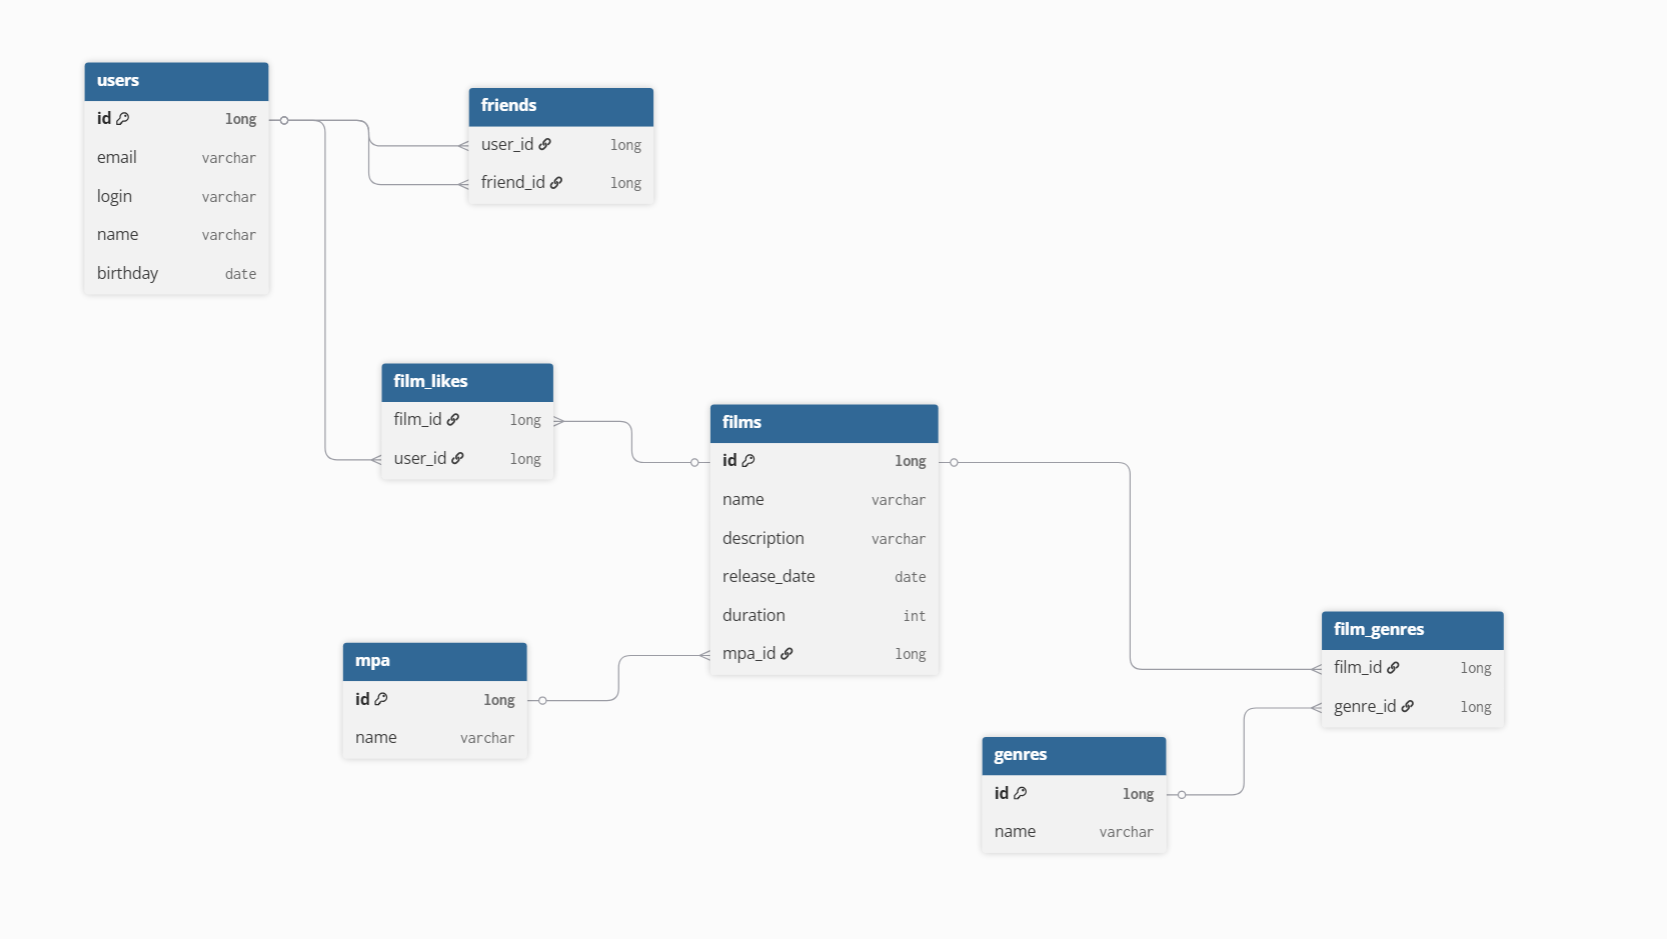
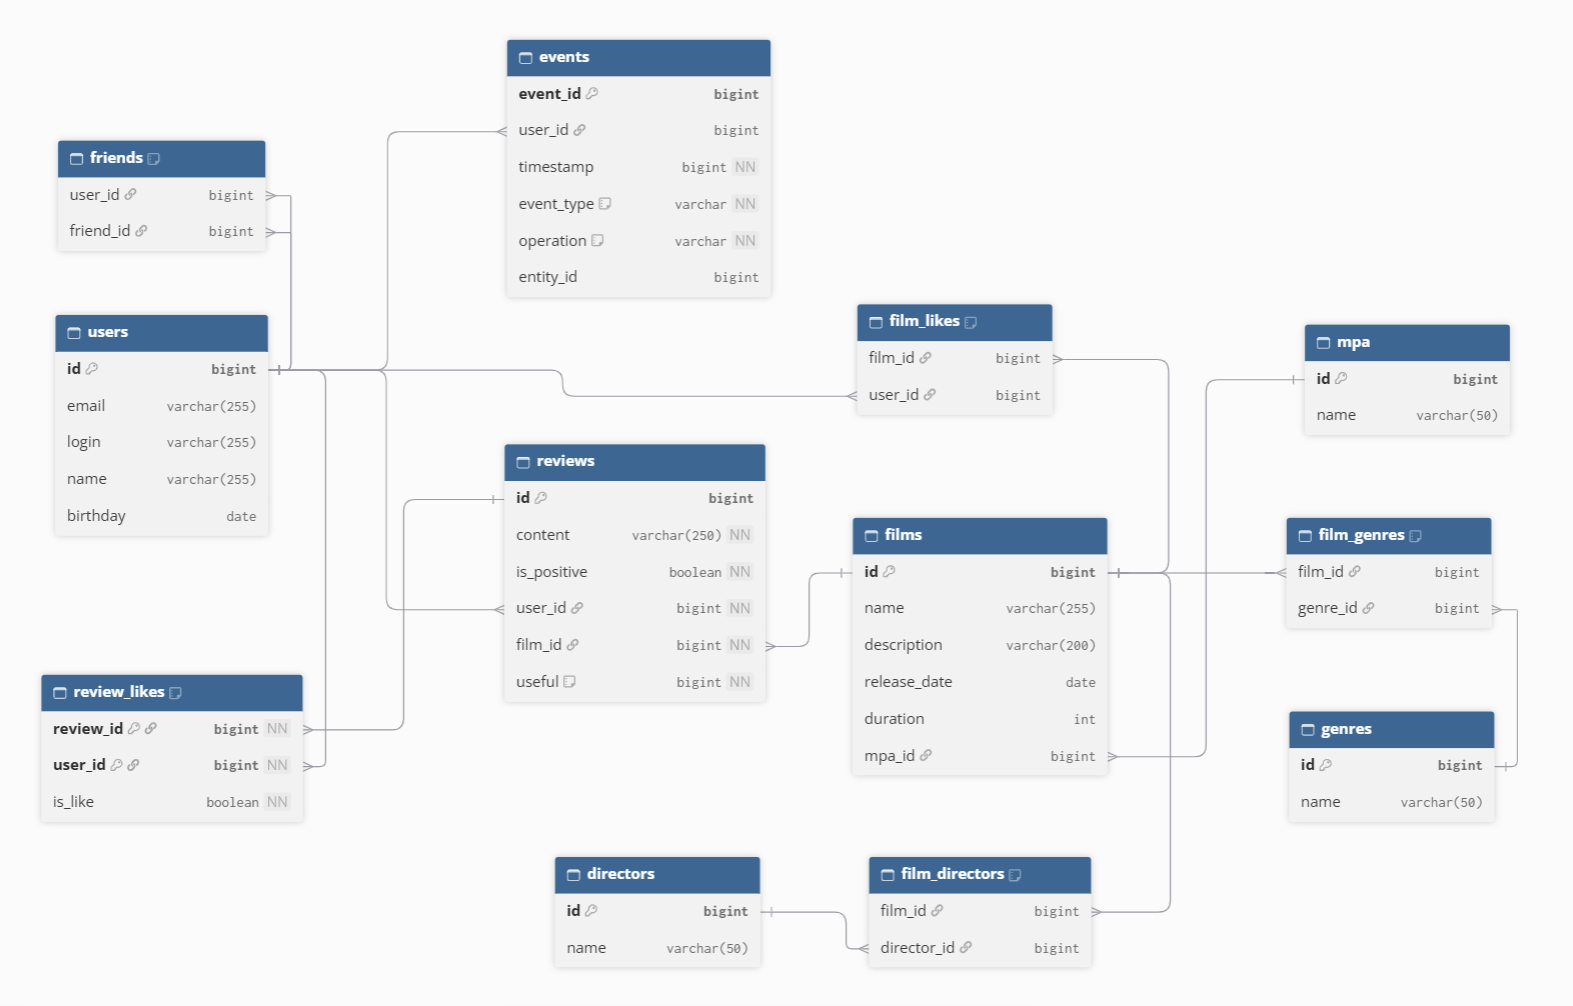
fix readme №1

diff --git a/README.md b/README.md
@@ -1,41 +1,131 @@
-# Распределение обязанностей
-* Функциональность «Общие фильмы» - Александр Пугачев
-* Вывод самых популярных фильмов по жанру и годам - Александр Пугачев
-* Функциональность «Лента событий» - Рахимов Диёр
-* Функциональность «Рекомендации» - Рахимов Диёр
-* Функциональность «Отзывы» - Ярослав Анферов
-* Удаление фильмов и пользователей - Ярослав Анферов
-* Функциональность «Поиск» - Фёдор Долганов
-* Добавление режиссёров в фильмы - Фёдор Долганов
+# Java Filmorate
+
+**Java Filmorate** — командный учебный проект: REST API для сервиса, в котором пользователи могут находить фильмы, оценивать их, общаться с друзьями и получать персональные рекомендации.
+
+Приложение позволяет вести каталог фильмов и пользователей, формировать рейтинги популярности по лайкам, искать фильмы по названию и режиссёру, публиковать отзывы и отслеживать события пользователей.
+
+
+## Схема
+
+![diagram.png](diagram.png)
 
 
 
-# Описание схемы базы данных
 
-![ER Diagram](diagram.png)
+## Функциональность
+
+### Фильмы
+
+- Добавление, получение, редактирование и удаление фильмов.
+- Хранение информации о названии, описании, дате выхода, продолжительности, жанрах, режиссёрах и возрастном рейтинге MPA.
+- Постановка и удаление лайков.
+- Получение рейтинга популярных фильмов по количеству лайков с фильтрацией по жанру и году выпуска.
+- Поиск фильмов по названию, имени режиссёра или одновременно по обоим параметрам; результаты упорядочиваются по популярности.
+- Получение фильмов определённого режиссёра с сортировкой по году выхода или числу лайков.
+- Получение фильмов, понравившихся двум пользователям.
+
+### Пользователи и социальные функции
+
+- Создание, получение, редактирование и удаление пользователей.
+- Добавление и удаление друзей, просмотр списка друзей и поиск общих друзей.
+- Персональные рекомендации фильмов на основе совпадений лайков с другим пользователем. Из фильмов наиболее похожего по предпочтениям пользователя выбираются те, которые текущий пользователь ещё не лайкнул.
+- Просмотр ленты событий: добавление и удаление друзей, лайки фильмов и действия с отзывами.
+
+### Отзывы
+
+- Создание, изменение, удаление и получение отзывов на фильмы.
+- Разделение отзывов на положительные и отрицательные.
+- Лайки и дизлайки отзывов, возможность отмены реакции.
+- Расчёт рейтинга полезности отзыва и сортировка отзывов по нему.
+
+*В представленном исходном коде для отзывов показаны сервис и слой доступа к данным; маршруты их REST-контроллера в приложенном документе не приведены.*
+
+### Справочники
+
+- Получение списка жанров и отдельных жанров.
+- Получение списка рейтингов MPA и отдельных рейтингов.
+- Добавление, изменение, получение и удаление режиссёров.
+
+## Технологии
+
+- **Java** — язык реализации.
+- **Spring Boot / Spring Web** — запуск приложения и создание REST API.
+- **Spring JDBC (`JdbcTemplate`)** — выполнение SQL-запросов и работа с реляционной базой данных.
+- **Maven** — сборка и управление зависимостями.
+- **Lombok** — уменьшение шаблонного кода моделей и логирование.
+- **Bean Validation** — проверка входных данных.
+- **SQL** — хранение пользователей, фильмов и связей между ними.
+
+## Архитектура
+
+Код разделён на пакеты:
+
+```text
+src/main/java/ru/yandex/practicum/filmorate/
+├── controller/   # REST-контроллеры и HTTP-эндпоинты
+├── service/      # Бизнес-логика и взаимодействие компонентов
+├── storage/      # Работа с БД через JdbcTemplate
+├── model/        # Модели предметной области
+└── exception/    # Обработка ошибок приложения
+```
+
+Основной поток обработки запроса: **HTTP-запрос → контроллер → сервис / хранилище → база данных → HTTP-ответ**. Часть контроллеров обращается непосредственно к хранилищам справочников.
+
+В `src/main/resources` предусмотрены `schema.sql` и `data.sql` для структуры и начальных данных БД. В корне проекта находится `diagram.png` со схемой базы данных.
+
+### Основные сущности
+
+`User`, `Film`, `Genre`, `Mpa`, `Director`, `Review` и `Event`. Для связей между сущностями используются, в частности, таблицы друзей, лайков фильмов, жанров и режиссёров фильмов, а также реакций на отзывы.
+
+## Основные API-эндпоинты
+
+| Метод | Эндпоинт | Назначение |
+|---|---|---|
+| `GET` | `/films` | Получить все фильмы |
+| `GET` | `/films/{id}` | Получить фильм по ID |
+| `POST` | `/films` | Добавить фильм |
+| `PUT` | `/films` | Обновить фильм |
+| `DELETE` | `/films/{filmId}` | Удалить фильм |
+| `PUT` / `DELETE` | `/films/{id}/like/{userId}` | Поставить / удалить лайк |
+| `GET` | `/films/popular?count=10&genreId=1&year=2020` | Популярные фильмы; жанр и год необязательны |
+| `GET` | `/films/search?query=...&by=title,director` | Поиск по названию и/или режиссёру |
+| `GET` | `/films/director/{directorId}?sortBy=year` | Фильмы режиссёра; `sortBy=year` или `likes` |
+| `GET` | `/films/common?userId=1&friendId=2` | Общие понравившиеся фильмы |
+| `GET` / `POST` / `PUT` | `/users` | Получить, создать или обновить пользователей |
+| `GET` / `DELETE` | `/users/{id}` | Получить или удалить пользователя |
+| `PUT` / `DELETE` | `/users/{id}/friends/{friendId}` | Добавить или удалить друга |
+| `GET` | `/users/{id}/friends` | Список друзей |
+| `GET` | `/users/{id}/friends/common/{otherId}` | Общие друзья |
+| `GET` | `/users/{id}/recommendations` | Рекомендации фильмов |
+| `GET` | `/users/{id}/feed` | Лента событий |
+| `GET` | `/genres`, `/genres/{id}` | Жанры |
+| `GET` | `/mpa`, `/mpa/{id}` | Рейтинги MPA |
+| `GET` / `POST` / `PUT` | `/directors` | Список, добавление и изменение режиссёров |
+| `GET` / `DELETE` | `/directors/{id}` | Получение или удаление режиссёра |
 
 
-База данных предназначена для хранения информации о пользователях и фильмах, а также их взаимодействиях.
+### Пример запроса
 
-Пользователи могут добавлять друг друга в друзья (таблица friends, со статусом дружбы).
+```bash
+curl -X POST http://localhost:8080/films \
+  -H "Content-Type: application/json" \
+  -d '{
+    "name": "Inception",
+    "description": "Фантастический триллер",
+    "releaseDate": "2010-07-16",
+    "duration": 148,
+    "mpa": {"id": 1}
+  }'
+```
 
-Пользователи могут ставить лайки фильмам (таблица film_likes).
+Идентификатор рейтинга MPA должен существовать в базе данных.
 
-У фильмов может быть несколько жанров (таблица film_genres).
+## Валидация и обработка ошибок
 
-Каждый фильм имеет рейтинг MPA (связь "один ко многим" с таблицей mpa).
+Для входных данных используются аннотации валидации и проверки бизнес-условий: например, дата выхода фильма не может быть раньше 28 декабря 1895 года, продолжительность должна быть положительной, а дата рождения пользователя — не в будущем.
 
-Примеры запросов:
+Глобальный обработчик исключений возвращает HTTP-статусы `400 Bad Request`, `404 Not Found` и `500 Internal Server Error` с информацией об ошибке в JSON.
 
-1. Получить всех пользователей
+---
 
-
-    SELECT * 
-    FROM users;
-
-2. Получить все фильмы
-
-
-    SELECT * 
-    FROM films;
-
+Проект выполнен в рамках командной практики разработки Java-приложений.
